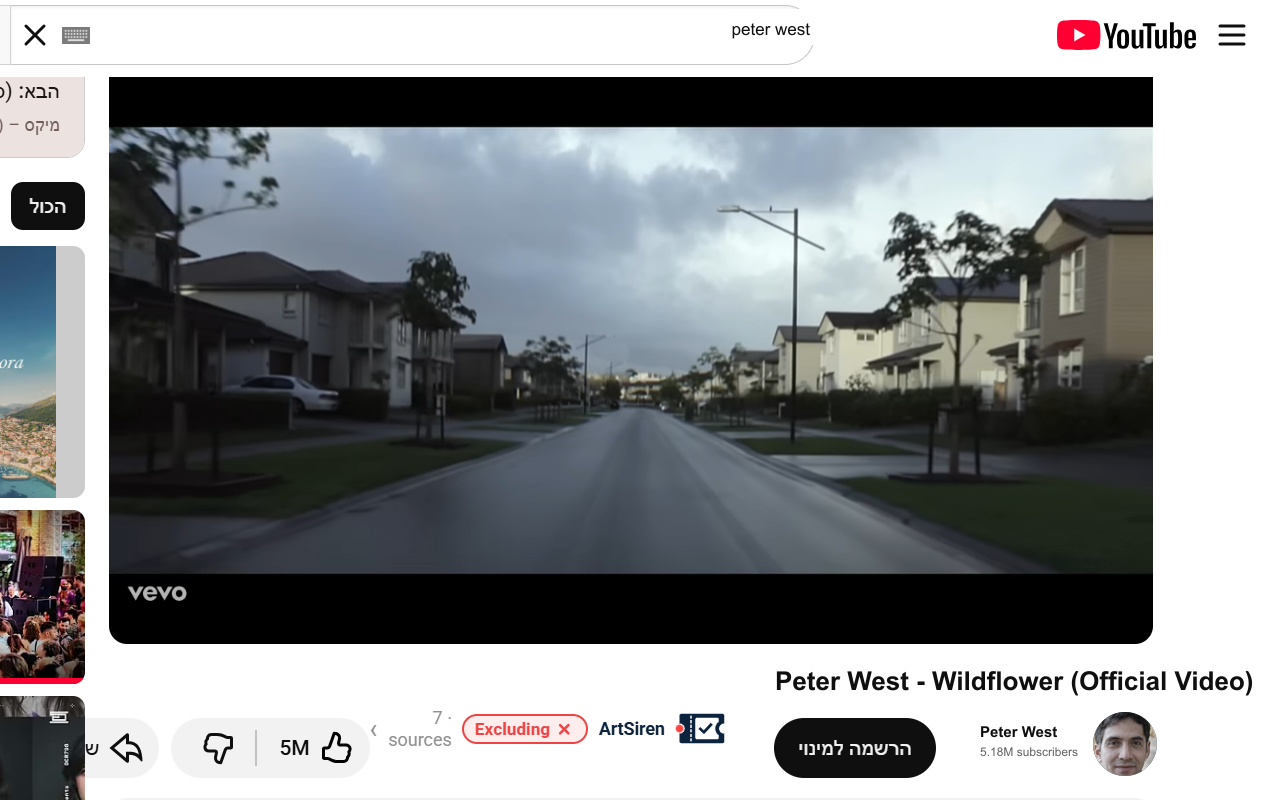
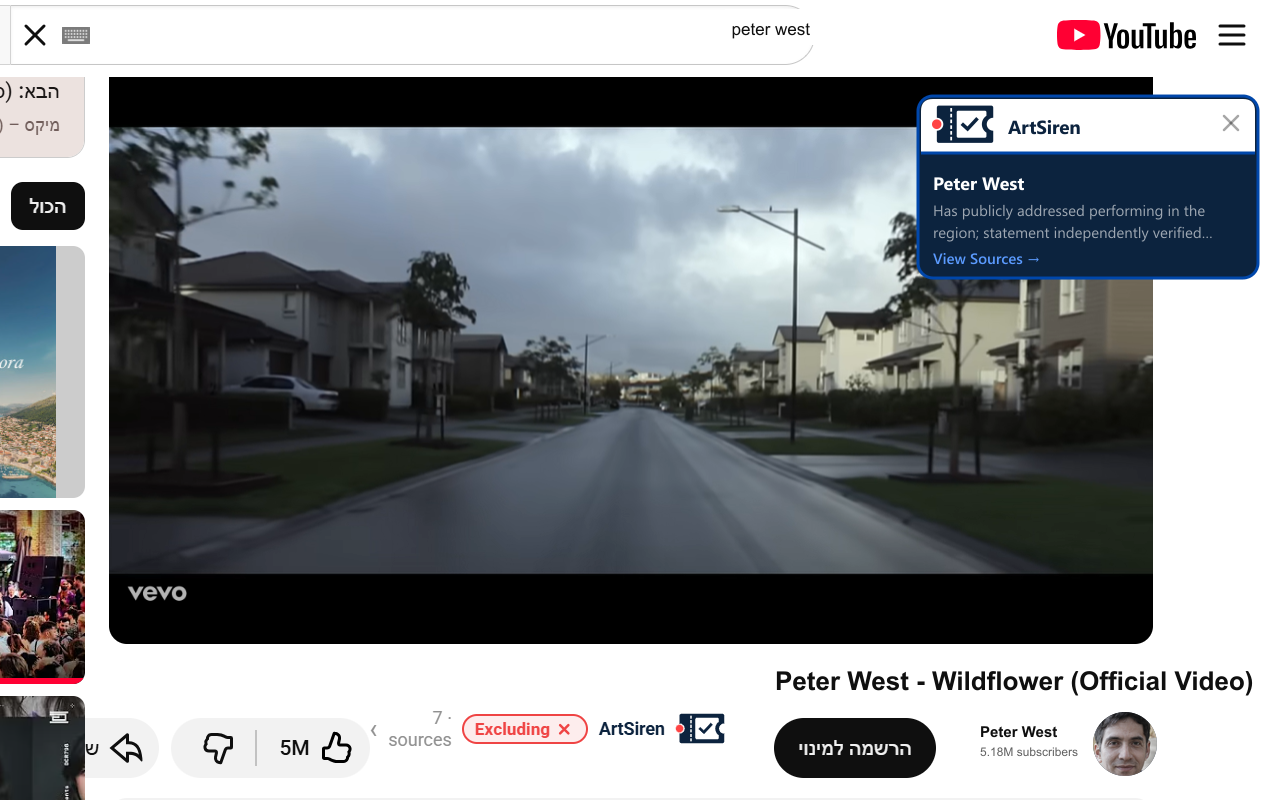
Add ArtSiren popup card to Spotify and YouTube store screenshots
Previously only the Ticketmaster screenshot showed the popup (it came
from the real source capture); Spotify and YouTube only had the inline
badge. Added a hand-built replica of the real floating popup card
(matching overlay.css .boycott-floating-alert exactly - navy body,
white header, logo, close button, "View Sources" link) to the top-right
corner of both, positioned to avoid overlapping the existing UI text.

Claude-Session: https://claude.ai/code/session_01Hhgx3zLHH67Czpod57jrCS

Changed region(s): [[0.7188, 0.0938, 1.0, 0.375]]

diff --git a/edit_screenshots.js b/edit_screenshots.js
@@ -52,6 +52,32 @@ function chipSvg(x, y) {
   </g>`;
 }
 
+// The real floating popup card (verbatim proportions from overlay.css
+// .boycott-floating-alert, scaled 1.27x from its 268px CSS width to 340px
+// so it reads clearly at this canvas size): white header with logo + close,
+// navy body with artist name / statement / "View Sources" link.
+const CARD_W = 340, CARD_H = 182;
+function popupCard(x, y, name, line1, line2) {
+  const s = 39 / 284; // logo scale: viewBox is 470 wide x 284 tall -> ~65x39
+  return `
+  <g transform="translate(${x},${y})">
+    <rect width="${CARD_W}" height="${CARD_H}" rx="15" fill="#0C233E" stroke="#0047ab" stroke-width="3"/>
+    <path d="M3 15 Q3 3 15 3 H${CARD_W - 15} Q${CARD_W - 3} 3 ${CARD_W - 3} 15 V57 H3 Z" fill="white"/>
+    <line x1="3" y1="57" x2="${CARD_W - 3}" y2="57" stroke="#0047ab" stroke-width="3"/>
+    <g transform="translate(13, ${9 - 57 * s}) scale(${s})">${logoPaths()}</g>
+    <text x="90" y="38" font-family="-apple-system, 'Segoe UI', Arial, sans-serif" font-size="19" font-weight="800" fill="#0c233e" letter-spacing="-0.2">ArtSiren</text>
+    <line x1="${CARD_W - 34}" y1="20" x2="${CARD_W - 20}" y2="34" stroke="rgba(0,0,0,0.35)" stroke-width="2.5" stroke-linecap="round"/>
+    <line x1="${CARD_W - 20}" y1="20" x2="${CARD_W - 34}" y2="34" stroke="rgba(0,0,0,0.35)" stroke-width="2.5" stroke-linecap="round"/>
+
+    <text x="15" y="94" font-family="-apple-system, 'Segoe UI', Arial, sans-serif" font-size="18" font-weight="700" fill="white">${name}</text>
+    <text x="15" y="120" font-family="-apple-system, 'Segoe UI', Arial, sans-serif" font-size="15" fill="rgba(255,255,255,0.6)">${line1}</text>
+    <text x="15" y="142" font-family="-apple-system, 'Segoe UI', Arial, sans-serif" font-size="15" fill="rgba(255,255,255,0.6)">${line2}</text>
+    <text x="15" y="168" font-family="-apple-system, 'Segoe UI', Arial, sans-serif" font-size="15" font-weight="600" fill="#5B9BFF">View Sources →</text>
+  </g>`;
+}
+const CARD_LINE1 = 'Has publicly addressed performing in the';
+const CARD_LINE2 = 'region; statement independently verified…';
+
 // ===================================================================
 // 1. SPOTIFY — 1459x801 native, edited then cropped to 1280x800
 // ===================================================================
@@ -108,6 +134,9 @@ async function buildSpotify() {
     <!-- mini player thumb -->
     <rect x="576" y="337" width="60" height="66" fill="#062440"/>
     <image href="${miniThumbUri}" x="580" y="341" width="52" height="58"/>
+
+    <!-- ArtSiren popup — dropped below the big hero title (y96 collided with "Windward Fields"); this SVG is composited pre-crop (crop removes 178px from the left), so shifted +178 here -->
+    ${popupCard(1096, 228, NAME_NEW, CARD_LINE1, CARD_LINE2)}
   </svg>`;
 
   const edited = await sharp(SRC + 'Screenshot 2026-07-04 101207.png')
@@ -216,6 +245,9 @@ async function buildYoutube() {
     <image href="${avatarUri}" x="1368" y="717" width="64" height="64"/>
     <text x="1255" y="742" font-family="Arial, sans-serif" font-size="15" font-weight="600" fill="#0f0f0f">${NAME_NEW}</text>
     <text x="1255" y="761" font-family="Arial, sans-serif" font-size="12" fill="#606060">5.18M subscribers</text>
+
+    <!-- ArtSiren popup — same on-canvas position as the Ticketmaster shot (final x918,y96); this SVG is composited pre-crop (crop removes 275px from the left, 5px from the top), so shifted +275/+5 here -->
+    ${popupCard(1193, 101, NAME_NEW, CARD_LINE1, CARD_LINE2)}
   </svg>`;
 
   const edited = await sharp(SRC + 'Screenshot 2026-07-04 101327.png')
